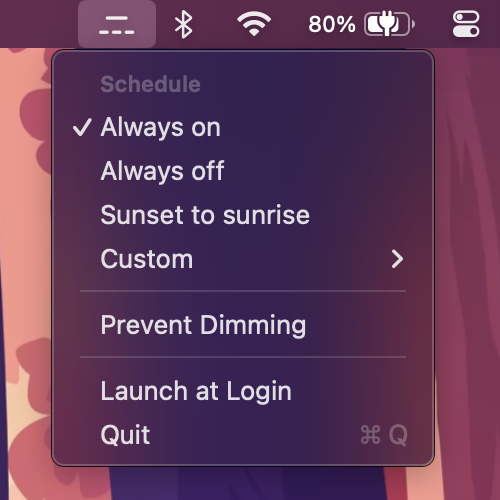
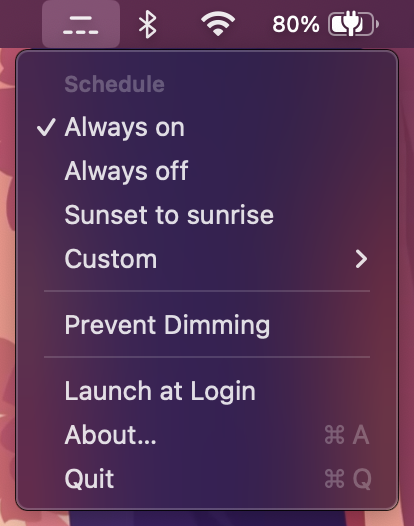
Reshoot the menu screenshot

diff --git a/README.md b/README.md
@@ -37,7 +37,7 @@ There are four schedules:
 - **Sunset to sunrise**: the backlight is off during daylight and comes back when it gets dark. Uses civil twilight, so it switches when it's actually dark rather than at the moment the sun crosses the horizon.
 - **Custom**: pick the hours the backlight should be off.
 
-<img src="docs/menu.png" alt="The Nocturne menu" width="250"/>
+<img src="docs/menu.png" alt="The Nocturne menu" width="207"/>
 
 Custom schedules are set from the submenu, one hour for the start and one for the end. Windows that run past midnight are fine, so 22:00 to 07:00 works as you'd expect.
 
